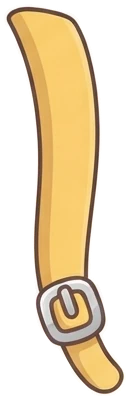
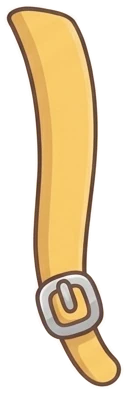
Mochila: el cuerpo de la mochila asoma por detrás de los hombros
La primera hoja de Gemini traía solo la tapa con tirantes; esta es la
mochila completa (cuerpo, asa y dos tirantes con hebilla).

Claude-Session: https://claude.ai/code/session_01Qy7K97RqaGRta1SPxnHZtT

diff --git a/src/mascota/accesorios-marioneta.js b/src/mascota/accesorios-marioneta.js
@@ -22,8 +22,8 @@ export const PIEZAS_ACCESORIO = {
   alas: [340, 232], antifaz: [223, 91], audifonos: [245, 208], bigote: [221, 74], birrete: [284, 172],
   bufanda: [236, 259], capa: [314, 249], casco: [246, 247], collar: [217, 157], corbata: [202, 202],
   corbatin: [184, 98], corona: [238, 102], gafas: [240, 106], gafas_sol: [235, 98], gorra: [221, 166],
-  gorro: [236, 205], jetpack: [226, 262], mago: [274, 208], medalla: [149, 230], mochila: [464, 406],
-  mono: [217, 169], parche: [210, 132], pirata: [290, 156], tirante_d: [130, 400], tirante_i: [125, 401],
+  gorro: [236, 205], jetpack: [226, 262], mago: [274, 208], medalla: [149, 230], mochila: [527, 480],
+  mono: [217, 169], parche: [210, 132], pirata: [290, 156], tirante_d: [128, 393], tirante_i: [123, 394],
   traje: [232, 212], vaquero: [287, 154],
 };
 
@@ -69,7 +69,7 @@ export const ACCESORIOS_MARIONETA = {
   mochila: {
     ranura: "espalda",
     partes: [
-      { pieza: "mochila", en: "cuello", capa: "espalda", w: 1.25, p: [0.5, 0.1], dy: -0.06 },
+      { pieza: "mochila", en: "cuello", capa: "espalda", w: 1.2, p: [0.5, 0.3], dy: 0.02 },
       { pieza: "tirante_i", en: "cuello", w: 0.2, p: [0.5, 0.04], dx: -0.25, dy: 0.0 },
       { pieza: "tirante_d", en: "cuello", w: 0.2, p: [0.5, 0.04], dx: 0.25, dy: 0.0 },
     ],
